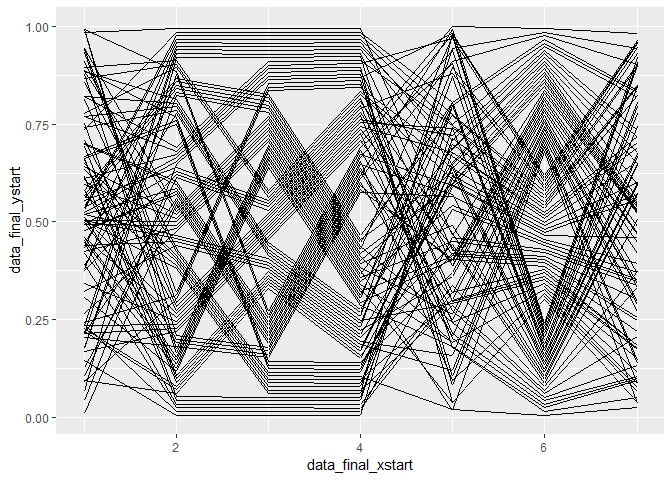
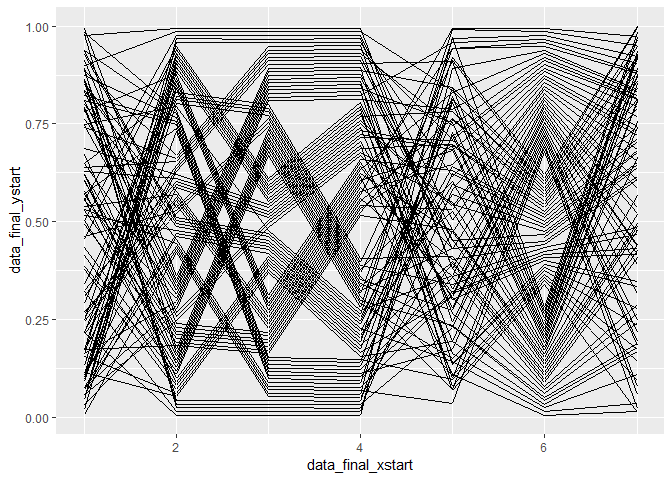
fix typo

Changed region(s): [[0.125, 0.0312, 0.9688, 0.875], [0.0312, 0.25, 0.0938, 0.2812]]

diff --git a/README.md b/README.md
@@ -28,7 +28,7 @@ str(simpledata3)
 
     ## 'data.frame':    700 obs. of  2 variables:
     ##  $ x: Factor w/ 7 levels "char2","char3",..: 5 5 5 5 5 5 5 5 5 5 ...
-    ##  $ y: Factor w/ 270 levels "0.008","0.017",..: 134 39 120 214 142 107 49 211 26 170 ...
+    ##  $ y: Factor w/ 272 levels "0.006","0.011",..: 52 226 42 4 144 220 256 257 184 168 ...
 
 ``` r
 num <- classpcp3 == "numeric"
@@ -39,16 +39,7 @@ nobs <- nrow(simpledata3)/length(classpcp3)
 
 #compute_panel(data, scales, num, fac, nnum, nfac, nobs, classpcp, freespace = 0.1)
 final_data <- compute_panel(simpledata3, scales = NULL, num, fac, nnum, nfac, nobs = 100, classpcp = classpcp3)
-```
 
-    ## Warning: group_by_() is deprecated. 
-    ## Please use group_by() instead
-    ## 
-    ## The 'programming' vignette or the tidyeval book can help you
-    ## to program with group_by() : https://tidyeval.tidyverse.org
-    ## This warning is displayed once per session.
-
-``` r
 ggplot(final_data) + 
   geom_segment(aes(x = data_final_xstart, y = data_final_ystart, xend = data_final_xend, yend = data_final_yend))
 ```
